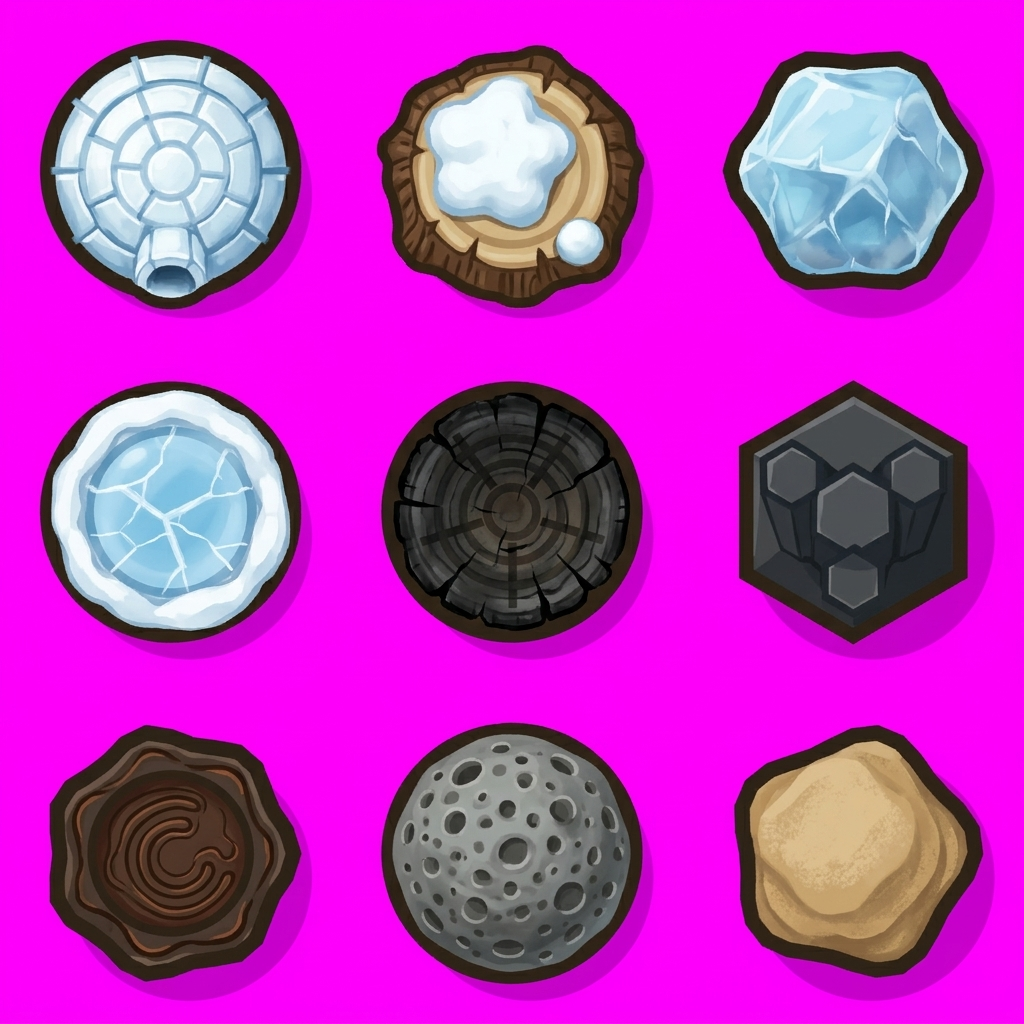
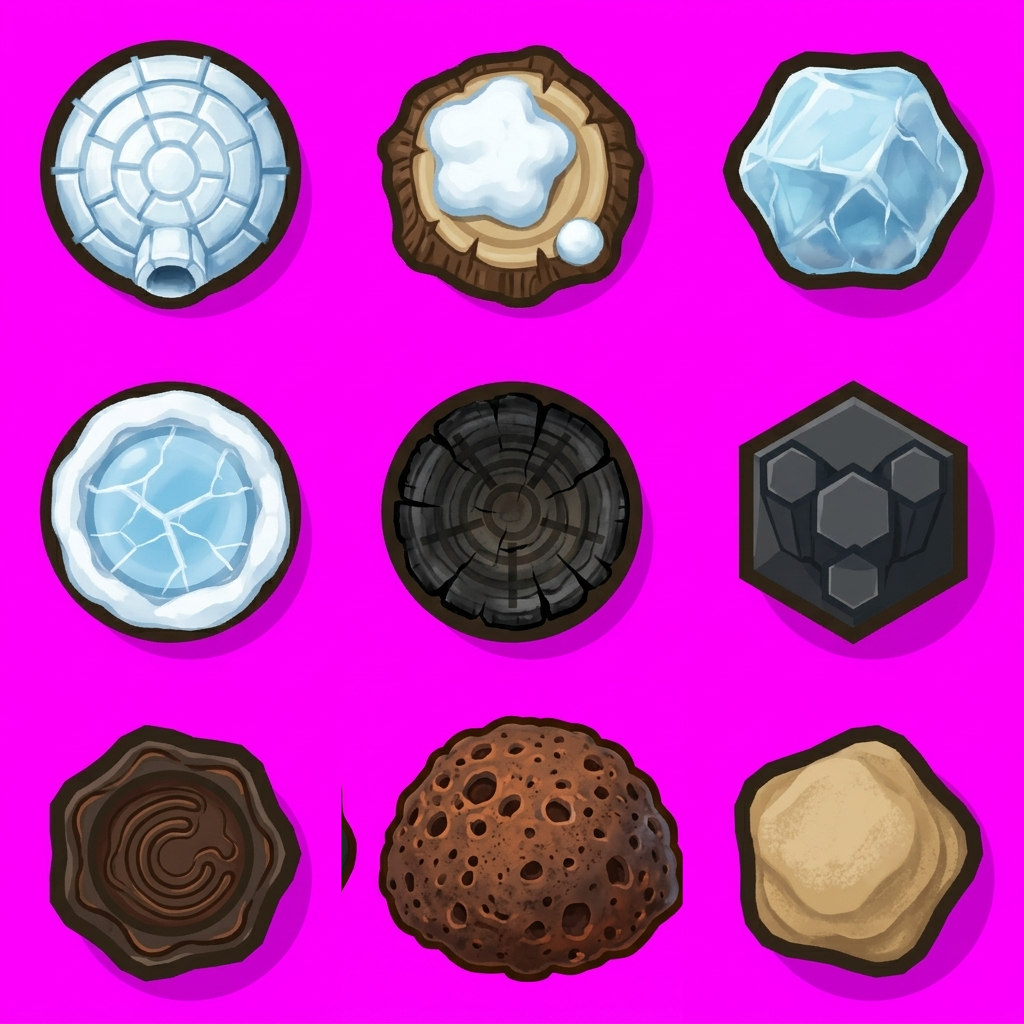
Theme-graded trees, arrows and honey; brown pumice dome; tree HP gauges above smashers (#Consistency-3..7)
Claude-Session: https://claude.ai/code/session_017EmdFURGX6t8tbCy3Vqi8v

Changed region(s): [[0.3125, 0.6875, 0.6875, 1.0]]

diff --git a/src/use/towerArt.ts b/src/use/towerArt.ts
@@ -63,6 +63,38 @@ let requested = false
 let revision = 0
 /** Bumps when the painted tower atlas lands — key the static bake on it. */
 export const towerArtRevision = (): number => revision
+// #Consistency-3: the lush green trees stood unchanged on ash / ice / ruin floors. Each theme
+// grades the painted tree once (offscreen, cached per sprite) so it belongs to its ground; the
+// team bows stay readable (blue vs red). No `ctx.filter` support (Safari) = untinted, as before.
+const TREE_GRADE: Readonly<Record<string, string>> = {
+  volcanic: 'saturate(0.5) brightness(0.78) sepia(0.3) contrast(1.05)',
+  snowy: 'saturate(0.7) brightness(1.1) hue-rotate(16deg)',
+  ruins: 'saturate(0.68) brightness(0.92)',
+  rocky: 'saturate(0.82) brightness(0.93)'
+}
+let treeTheme = ''
+/** Set the arena theme the trees are graded for (the static bake key already includes it). */
+export const setTowerTheme = (theme: string): void => { treeTheme = theme }
+const graded = new Map<string, HTMLCanvasElement | OffscreenCanvas>()
+const gradedSprite = (name: PaintedTowerName): HTMLCanvasElement | OffscreenCanvas | null => {
+  const grade = TREE_GRADE[treeTheme]
+  if (!grade || name.endsWith('Felled') || !atlas) return null
+  const key = `${name}|${treeTheme}`
+  const hit = graded.get(key)
+  if (hit) return hit
+  const s = PAINTED_TOWERS?.sprites[name]
+  if (!s) return null
+  let c: HTMLCanvasElement | OffscreenCanvas
+  if (typeof OffscreenCanvas !== 'undefined') c = new OffscreenCanvas(s.w, s.h)
+  else { c = document.createElement('canvas'); c.width = s.w; c.height = s.h }
+  const g = c.getContext('2d') as CanvasRenderingContext2D | null
+  if (!g || !('filter' in g)) return null
+  g.filter = grade
+  g.drawImage(atlas, s.x, s.y, s.w, s.h, 0, 0, s.w, s.h)
+  graded.set(key, c)
+  return c
+}
+
 /** White silhouettes for the hit flash, baked lazily once per sprite. */
 const flashSprites = new Map<PaintedTowerName, HTMLCanvasElement | OffscreenCanvas>()
 
@@ -146,7 +178,9 @@ export const drawPaintedTower = (
   const ks = stage === 3 ? k * FELLED_STUMP_SCALE : k
   const dx = gx - s.gx * ks
   const dy = gy - s.gy * ks
-  ctx.drawImage(atlas, s.x, s.y, s.w, s.h, dx, dy, s.w * ks, s.h * ks)
+  const tinted = gradedSprite(name)
+  if (tinted) ctx.drawImage(tinted as CanvasImageSource, dx, dy, s.w * ks, s.h * ks)
+  else ctx.drawImage(atlas, s.x, s.y, s.w, s.h, dx, dy, s.w * ks, s.h * ks)
   if (flash > 0.05) {
     const f = flashSprite(name)
     if (f) {

diff --git a/src/use/useSpinnerGame.ts b/src/use/useSpinnerGame.ts
@@ -62,7 +62,7 @@ import { BALLOON_HP, balloonCount, drawBalloonHp, drawBalloonHpNumber, newBalloo
 import { preloadBalloonArt } from '@/use/balloonArt'
 import { BALLOON_FX_CAP, createBalloonPopFx, drawBalloonPopFx, resetBalloonPopFx, tickBalloonPopFx, type BalloonPopFx } from '@/use/balloonPopFx'
 import { newSlotOn, BALLOON_POP_SFX } from '@/audio/audioVersions'
-import { drawPaintedTower, towerArtMaxScale, preloadTowerArt, towerArtRevision, towerDamageStage } from '@/use/towerArt'
+import { setTowerTheme, drawPaintedTower, towerArtMaxScale, preloadTowerArt, towerArtRevision, towerDamageStage } from '@/use/towerArt'
 import { matchRng, seedMatchRng, seedMatchRngRandom, currentMatchSeed, createRng, GAMEPLAY_RNG_SALT } from '@/use/useDeterministicRng'
 import { currentPvpRole } from '@/use/usePVP'
 import { saveDataVersion } from '@/use/useSaveStatus'
@@ -5567,6 +5567,11 @@ export const useSpinnerGame = () => {
       })
     }
 
+    // #Consistency-7: tree HP gauges ride ABOVE the smashers and their balloons (a spawn row sits
+    // right at each tree, and the plate used to vanish under the balloons / overlap the disc).
+    // The SAME gauge a smasher shows, on the side of the tree that bulges into the arena.
+    if (!CLEAN_FEED || CLEAN_HP_RINGS) for (const t of towers) if (t.hp > 0) renderTowerGauge(ctx, t)
+
     // Floating damage numbers.
     //
     // The digits themselves are already gone in a clean feed (the recorder
@@ -5883,6 +5888,7 @@ export const useSpinnerGame = () => {
     // patches and the theme's floor decor. No radial gradients or blur (perf
     // rule): flat fills + alpha shapes only.
     const artTheme = arenaTheme()
+    setTowerTheme(artTheme)
     const look = THEME_LOOK[artTheme]
     const pal = look.floor
     // A layout may retint the plain meadow clearing (snow, autumn, marsh …);
@@ -6082,9 +6088,6 @@ export const useSpinnerGame = () => {
         }
         ctx.restore()
       }
-      // HP — the SAME gauge a smasher shows, on the side of the tree that
-      // bulges into the arena (the rest is set into the wall).
-      if (!CLEAN_FEED || CLEAN_HP_RINGS) renderTowerGauge(ctx, t)
     }
     for (const d of towerDebris) {
       ctx.save()

diff --git a/src/use/arenaTerrainDraw.ts b/src/use/arenaTerrainDraw.ts
@@ -358,15 +358,39 @@ export const TERRAIN_FEATURE_DRAW = {
   log: drawLog
 }
 
+// #Consistency-4/-5: the painted green leaf arrows and golden honey are woodland art. On other
+// themes they are hue-graded (once, in the static bake) so they belong to the ground: ember
+// arrows + tar on volcanic, icy arrows + blue-white "frost gel" on snowy, muted on ruins/rocky.
+const ARROW_GRADE: Readonly<Partial<Record<ArenaTheme, string>>> = {
+  volcanic: 'hue-rotate(-92deg) saturate(1.15) brightness(1.05)',
+  snowy: 'hue-rotate(78deg) saturate(0.8) brightness(1.15)',
+  ruins: 'hue-rotate(-28deg) saturate(0.7)',
+  rocky: 'saturate(0.7) brightness(0.95)',
+  bedroom: 'hue-rotate(-60deg) saturate(1.1)'
+}
+const HONEY_GRADE: Readonly<Partial<Record<ArenaTheme, string>>> = {
+  volcanic: 'hue-rotate(-12deg) saturate(0.7) brightness(0.45)',
+  snowy: 'hue-rotate(165deg) saturate(0.55) brightness(1.2)',
+  ruins: 'saturate(0.55) brightness(0.85)',
+  rocky: 'saturate(0.6) brightness(0.8)'
+}
+const withGrade = (ctx: Ctx, grade: string | undefined, draw: () => void): void => {
+  if (!grade || !('filter' in ctx)) return draw()
+  const prev = ctx.filter
+  ctx.filter = grade
+  draw()
+  ctx.filter = prev
+}
+
 /** Draws every feature of a layout, flat ground first, solids on top. Solids
  *  wear the arena theme's look (arenaThemes OBSTACLE_LOOK — visual only). */
 export const renderTerrainFeatures = (ctx: Ctx, t: TerrainLayout, theme: ArenaTheme = 'meadow'): void => {
   const D = TERRAIN_FEATURE_DRAW
   const look = OBSTACLE_LOOK[theme]
   for (const h of t.holes) (h.deep ? D.deepHole : D.mud)(ctx, h)
-  for (const h of t.honey) D.honey(ctx, h)
+  withGrade(ctx, HONEY_GRADE[theme], () => { for (const h of t.honey) D.honey(ctx, h) })
   for (const b of t.boosters) D.booster(ctx, b)
-  for (const a of t.arrows) D.leafArrow(ctx, a)
+  withGrade(ctx, ARROW_GRADE[theme], () => { for (const a of t.arrows) D.leafArrow(ctx, a) })
   for (const isl of t.islands) {
     const k = look[isl.kind]
     if (k === 'plain') D[isl.kind](ctx, isl)

diff --git a/src/use/paintedObstaclesA.ts b/src/use/paintedObstaclesA.ts
@@ -2,4 +2,4 @@
 // Painted themed-obstacle atlas in public/images/terrain/: 3 × 3 cells in
 // arenaThemes OBSTACLE_LOOKS_A order, each look centred with its radius = rFrac of a cell.
 export const PAINTED_OBSTACLES_A: { file: string, cell: number, rFrac: number, v: string } | null =
-  { file: "obstacles-a_960x960.webp", cell: 320, rFrac: 0.36, v: 'dfad1244' }
+  { file: "obstacles-a_960x960.webp", cell: 320, rFrac: 0.36, v: '53bfc5d8' }

diff --git a/roadmap.md b/roadmap.md
@@ -299,9 +299,18 @@ Held back by the release gate (Humphrey, Boxa, Howler, Snapjaw, Leon, Antlo, Gro
   Do short simulations for whether pop-in and loading delays still happens afterwards, test 3-5 scenarios of a cold-loading a fresh player, cold-loading an progressed player and hot-loading, opening upgrade modal and other menus.
   DON'T START WITHOUT MY OWN INITIATED REQUEST TO START IT.
 
+## #Consistency-1 audit findings (2026-10-24, stages 3/14/27 viewed at 1280×720; 41/58/77 not yet)
 - [ ] #Consistency-1 Check all assets and game mechanics and visual style of the game for consistency. Does the game asset assembly makes sense in most of the situations? Are non-seemless texture cuts visible? How likely can this game be identified as an AI slop by human eyes without knowing about weather the games art is done by AI or not.
   write all found inconsistencies as new bullet points #Consistency-3...XXX
 - [x] #Consistency-2 (stump 0.4×; smasher deaths now burst cotton stuffing — `stuffingFx.ts`; stage 1 keeps the demo-pull hint until a shot is fired) The tree stump of the cut down/defeated tree model is ~2.5x as big as the tree log of the actual tree model. The explosion vfx doesnt fit well with the smashers, create an "Watte explosion"(german wording) vfx effect instead as the stuffed animals die, their insides are flowing out. On the first stage, show the drag indicator from the beginning until the player does a backwards drag on the first smasher as some are trying to drag from the players smasher to the enemies one.
+- [x] #Consistency-3 Volcanic arenas (stage 27): the player/enemy trees stay lush green with red bows on ash + lava. Give each theme a matching tree variant (ash/charred, frozen, autumn) or tint the crown to the floor palette.
+- [x] #Consistency-4 The bright-green leaf boost arrows sit on ash/lava floors (stage 27) and read as pasted-on; make arrow/booster skins per theme (ember arrows on volcanic, ice shards on snowy).
+- [x] #Consistency-5 Honey blobs on a volcanic floor are saturated yellow with a different outline weight than the neighbouring rocks; theme the hazard (molten gold / tar) or skip honey on non-woodland themes.
+- [x] #Consistency-6 Grey cratered boulders (stage 27) are a different render style (soft shading, no ink outline) from the outlined rock/crystal props around them — repaint with the same ink line and shading.
+- [x] #Consistency-7 Tree HP number plates collide with the nearest smasher/balloons (stage 14 top tree: plate under the bow overlaps the red balloons; bottom tree plate under the blue smasher). Keep plate and arc off the spawn rows.
+- [ ] #Consistency-8 Smasher scale vs props: smashers + balloons are ~1.5× the height of the pine trees in the forest wall, so the wall reads as a diorama and not as the same world; either shrink the border trees' apparent size cues or add a depth/blur step.
+- [ ] #Consistency-9 AI-slop tells to review: identical bow-tie tree faces on every stage, repeated flower pattern along the stage-14 hedge (tile repeat every ~1 arc), uniformly rounded toy-style smashers with different line weights between painted generations — normalise outline weight across the 48 sheets.
+- [ ] #Consistency-10 Remaining stages (41/58/77) and menus (upgrade modal, skins, league) still to be audited.
 
 
 - [ ] #Perf-1 The game showed 13 fps on this tablet device.
@@ -329,12 +338,5 @@ Held back by the release gate (Humphrey, Boxa, Howler, Snapjaw, Leon, Antlo, Gro
 - [x] Terrain features repainted in the flat toy style (booster speed pad + leaf arrow, stump, rock, pond, mushroom, mud, hole, honey) — old sheet in `art-sheets/painted/stale/terrain-features.v1-*.png`; `slice-painted.mjs --max-aspect 1.6` accepted the squat leaf
 - [ ] Wavedash leaderboard: the SDK init now finds `window.Wavedash` and failed SDK calls warn in the console (`[Wavedash leaderboard]`); NOT yet confirmed on a live `wavedash dev` — rebuild `wavedash-dist` first (`dev:wavedash` serves the last build)
 
-## #Consistency-1 audit findings (2026-10-24, stages 3/14/27 viewed at 1280×720; 41/58/77 not yet)
-- [ ] #Consistency-3 Volcanic arenas (stage 27): the player/enemy trees stay lush green with red bows on ash + lava. Give each theme a matching tree variant (ash/charred, frozen, autumn) or tint the crown to the floor palette.
-- [ ] #Consistency-4 The bright-green leaf boost arrows sit on ash/lava floors (stage 27) and read as pasted-on; make arrow/booster skins per theme (ember arrows on volcanic, ice shards on snowy).
-- [ ] #Consistency-5 Honey blobs on a volcanic floor are saturated yellow with a different outline weight than the neighbouring rocks; theme the hazard (molten gold / tar) or skip honey on non-woodland themes.
-- [ ] #Consistency-6 Grey cratered boulders (stage 27) are a different render style (soft shading, no ink outline) from the outlined rock/crystal props around them — repaint with the same ink line and shading.
-- [ ] #Consistency-7 Tree HP number plates collide with the nearest smasher/balloons (stage 14 top tree: plate under the bow overlaps the red balloons; bottom tree plate under the blue smasher). Keep plate and arc off the spawn rows.
-- [ ] #Consistency-8 Smasher scale vs props: smashers + balloons are ~1.5× the height of the pine trees in the forest wall, so the wall reads as a diorama and not as the same world; either shrink the border trees' apparent size cues or add a depth/blur step.
-- [ ] #Consistency-9 AI-slop tells to review: identical bow-tie tree faces on every stage, repeated flower pattern along the stage-14 hedge (tile repeat every ~1 arc), uniformly rounded toy-style smashers with different line weights between painted generations — normalise outline weight across the 48 sheets.
-- [ ] #Consistency-10 Remaining stages (41/58/77) and menus (upgrade modal, skins, league) still to be audited.
+
+  - 2026-10-25: #3 trees graded per theme (towerArt.ts TREE_GRADE, ctx.filter — Safari stays ungraded); #4/#5 arrows + honey hue-graded per theme (arenaTerrainDraw.ts); #6 pumice dome repainted brown (only cell 8 taken from a new Gemini sheet — a text-only repaint of the full sheet comes back side-on, so the old v1 sheet is kept in painted/terrain-obstacles-a.v1-cratered.png); #7 tree HP gauges drawn above smashers/balloons.
